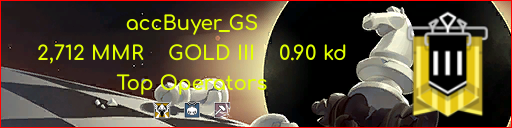
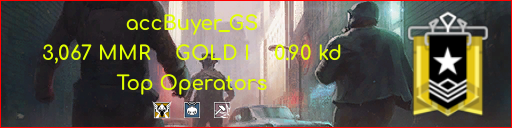
bages background extensions; loading resources fixing

diff --git a/modules/statistics.js b/modules/statistics.js
@@ -126,7 +126,10 @@ async function Make_Canvas(stats, CURRENT_GUILD)
     const BACKGROUND_DEFAULT = await fs.readdirSync(`./source/bages/available`).find(file => file.startsWith(`ui_playercard_0`));
 
     await Preload_Resources(stats);
-    if (BACKGROUND_TYPE == "png")
+    // ! Не знаю пока что как ещё сделать задержку для прогрузки ресурсов
+    await new Promise(r => setTimeout(r, 3000));
+    // if (BACKGROUND_TYPE == "png" || BACKGROUND_TYPE == "jpg" || BACKGROUND_TYPE == "jpeg")
+    if (BACKGROUND_TYPE.match('png|jpg|jpeg'))
     {
         const width = 512, height = 128;
         const canvas = await Canvas.createCanvas(width, height);
